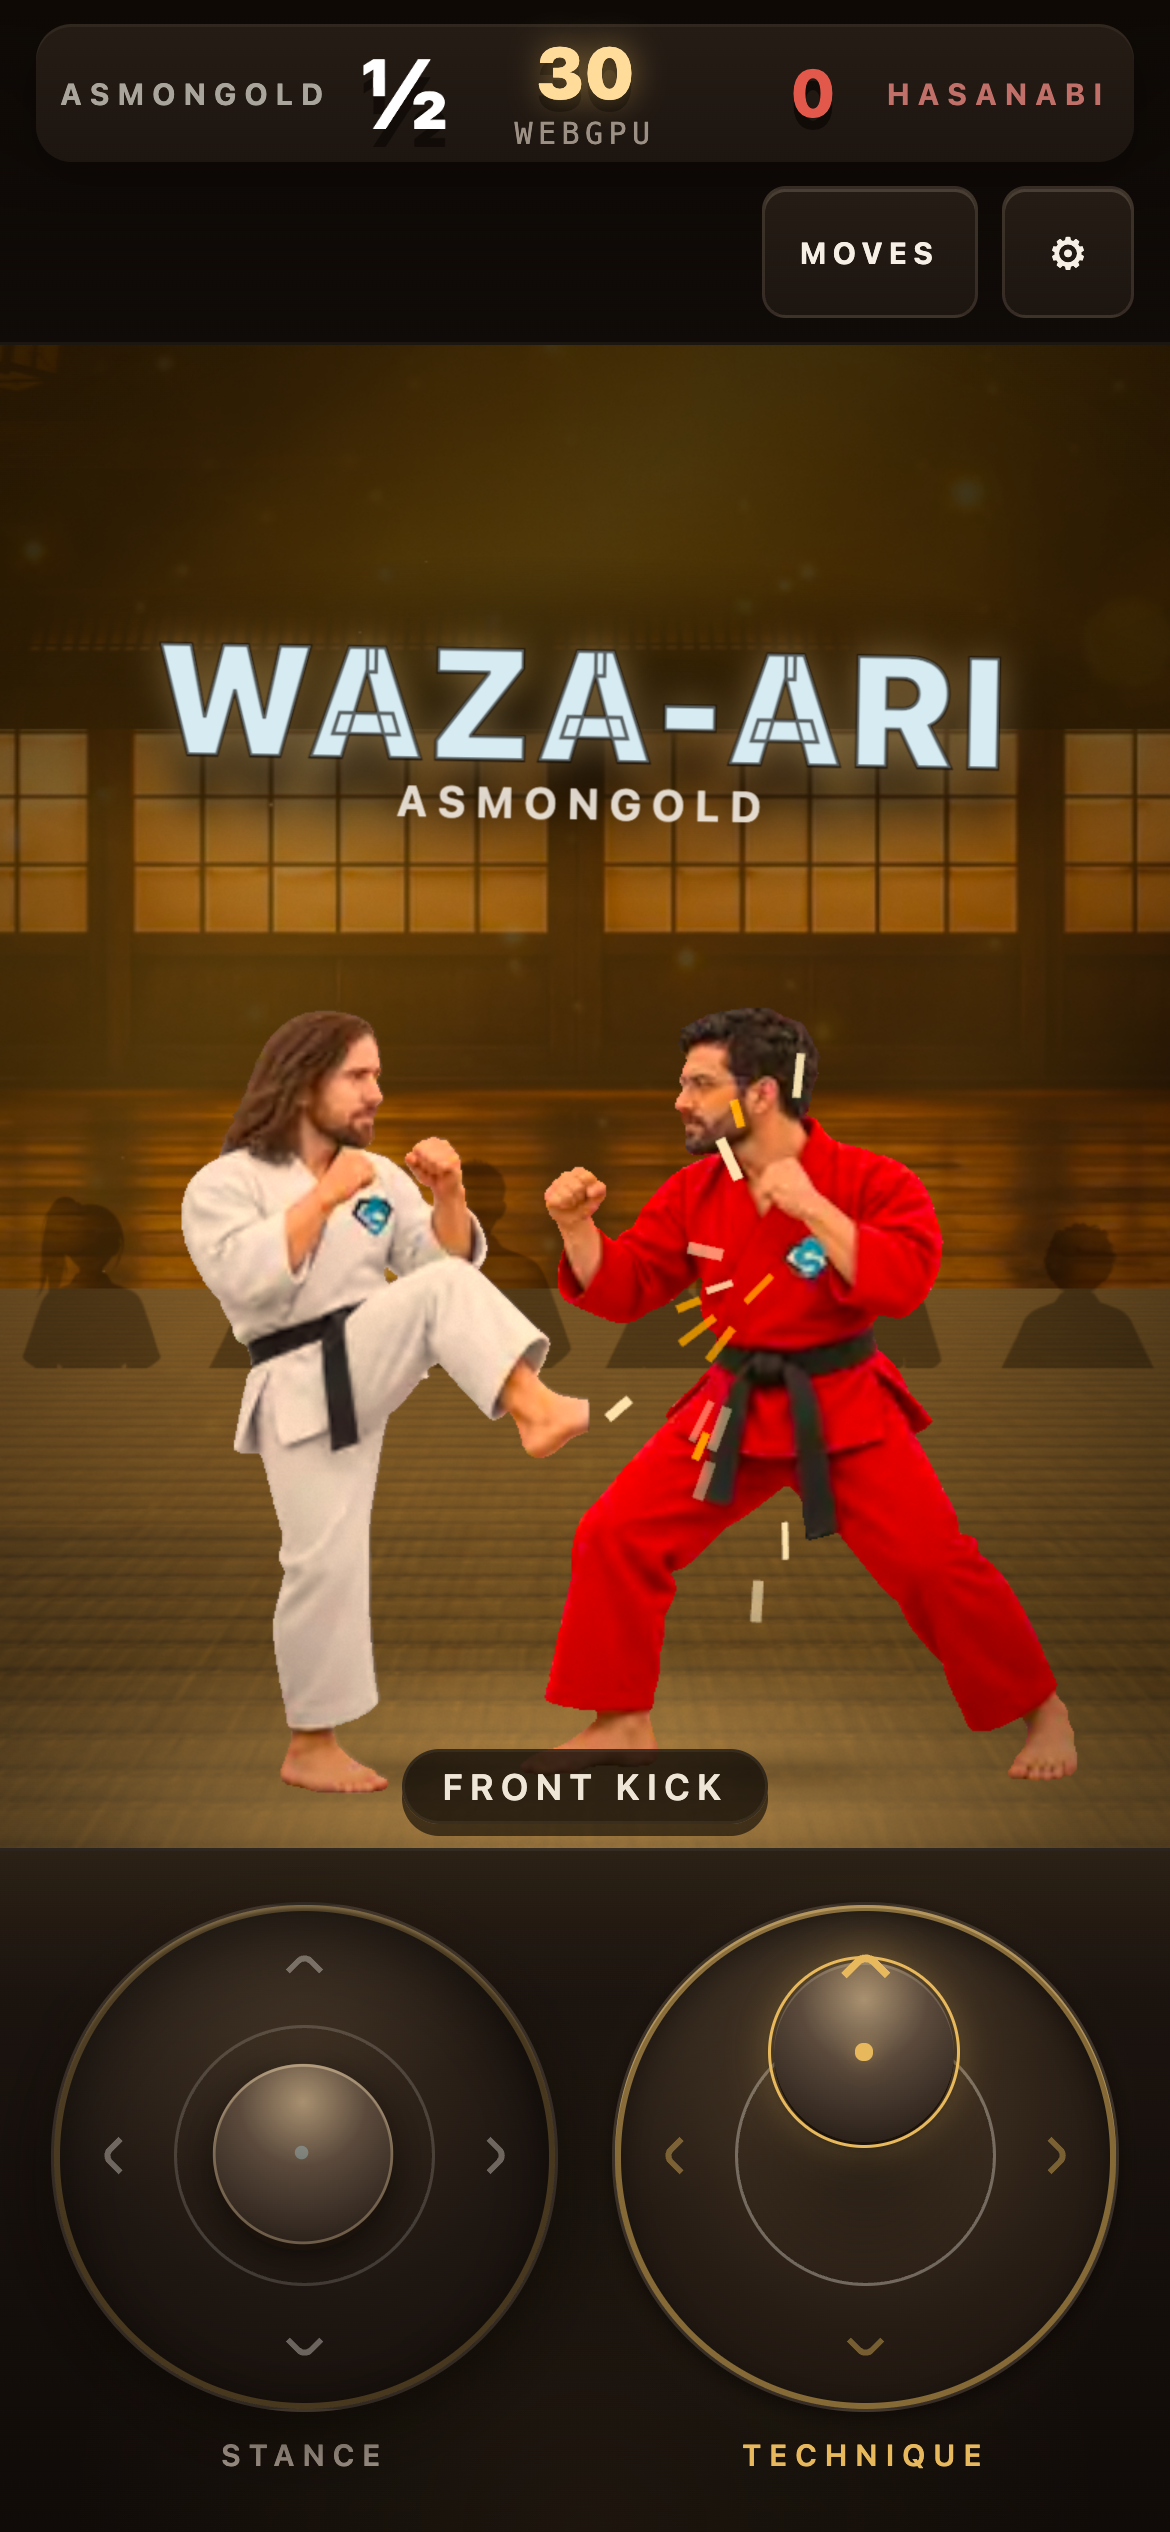
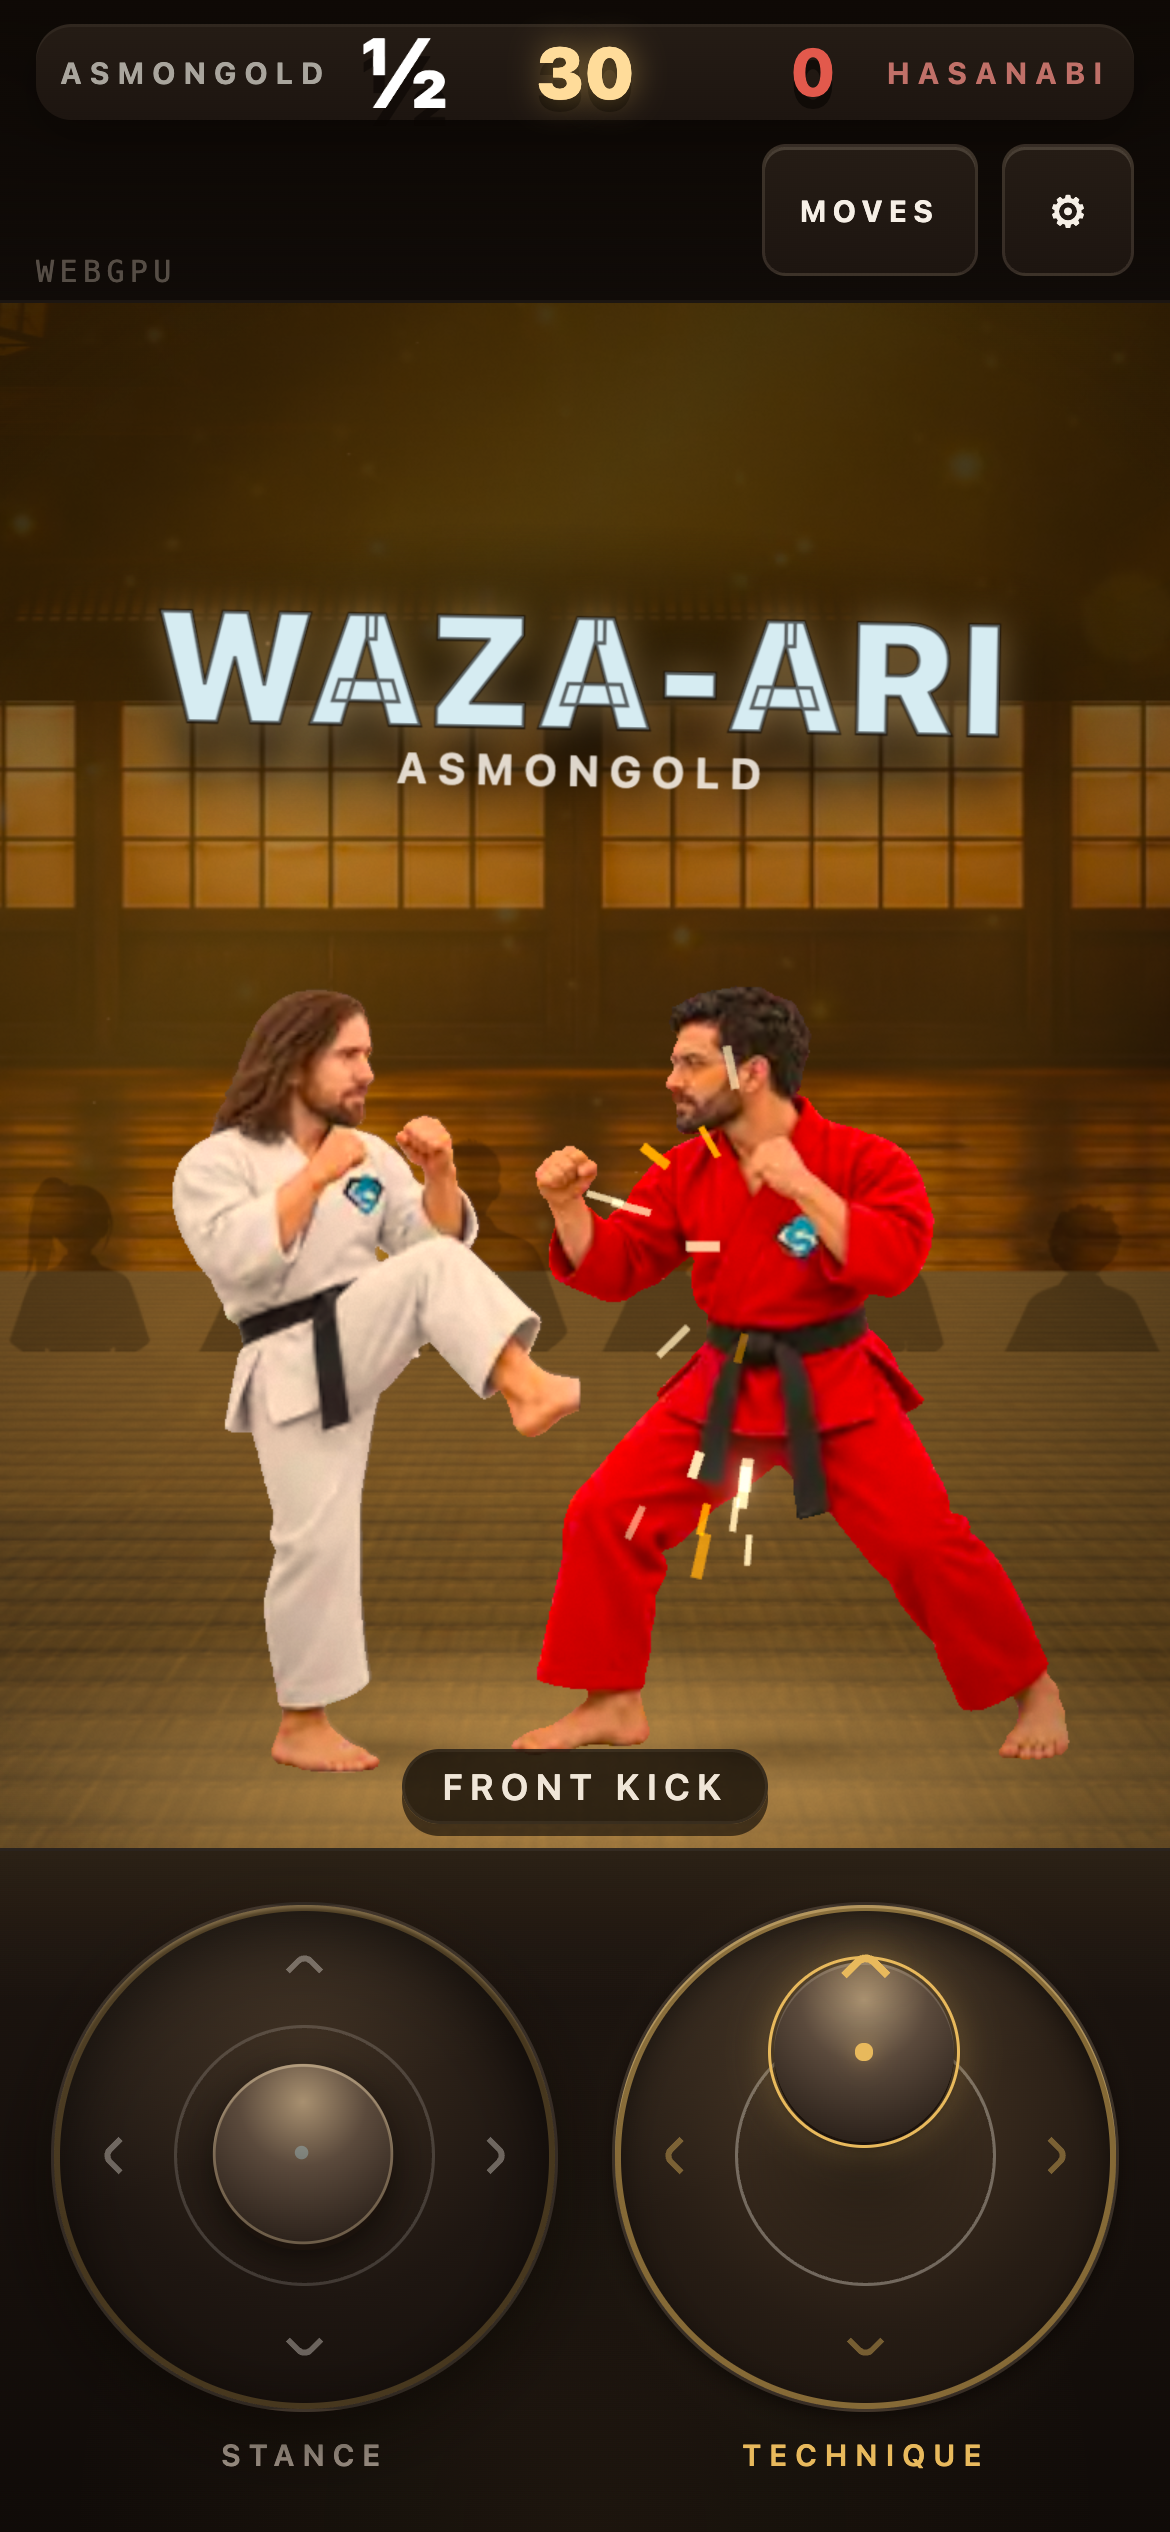
fix(ui): vision-review round 2 — result card, boot gauge, crowd, badge, vignette
Reviewed by z-ai/glm-5.3-flash against round 1's screenshots. All five items
verified in source first, then by screenshot after.

- result card: a scrim, not a blackout. A flat 0.72 plate sat under a radial
  scrim and the two together crushed the dojo to pure black. First attempt at
  easing it made the detail line unreadable against a white gi, so legibility
  is now bought locally with a blurred plate under the text column only, and
  the dojo reads through everywhere else.
- boot gauge: the bar legitimately sits at 0% while the first bundle fetch runs,
  which read as broken. The status line now carries the real percentage, and
  carries it from the first paint (markup included, not just the first update).
  The well is lifted off the page background so a 0% bar still looks like a gauge.
- crowd: MeshBasicMaterial takes no light, so a neutral brown row read as grey
  cutouts pasted onto a tungsten scene. Repainted warm and pulled back.
- renderer badge: out of the clock's centre slot and into a dimmed corner tab.
  It is diagnostics; the most-watched pixel was being spent on it.
- vignette 0.38 -> 0.28, which was crushing the dojo's upper structure and
  leaving the top third of a portrait screen featureless.

diff --git a/apps/game/src/styles.css b/apps/game/src/styles.css
@@ -112,6 +112,13 @@
      the focus, but the art is visible behind it now. */
   --scrim-soft: rgb(14 9 5 / 0.55);
   --scrim-hard: rgb(10 7 4 / 0.86);
+  /* The result screen's own pair: dark enough for gold display type to hold
+     contrast, sheer enough that the dojo is still visibly behind it. */
+  --result-veil-soft: rgb(12 8 4 / 0.3);
+  --result-veil-hard: rgb(8 5 3 / 0.74);
+  --plate-clear: rgb(8 5 3 / 0.12);
+  --result-plate: rgb(10 7 4 / 0.62);
+  --result-plate-solid: rgb(10 7 4 / 0.88);
   /* The flat knock-down between the round card's readability scrim and the
      painted dojo plate beneath it. Sits at the scrim's own corner value: any
      lighter and the plate's lit centre survives as a bright bloom right where
@@ -295,7 +302,7 @@
      stray gold dash rather than as a meter that is nearly empty. It is a
      sunken leather well, and the hairline is what draws its edge against a
      ground that is the same value. */
-  --boot-well: rgb(38 27 19 / 0.92);
+  --boot-well: rgb(56 41 28 / 0.95);
   --boot-well-edge: rgb(255 234 205 / 0.1);
   --boot-fill: linear-gradient(90deg, var(--gold-deep), var(--gold) 58%, var(--gold-bright));
   --boot-glint: rgb(255 246 226 / 0.42); /* the light running through the fill */
@@ -464,7 +471,8 @@ body {
 
 /* 6px, not the 2px hairline it started as: on a phone the bar is the only
    thing reporting real progress, and at 2px against a dark well it read as a
-   rule rather than as a gauge. */
+   rule rather than as a gauge. The well is lifted off the page background for
+   the same reason — a 0% bar still has to look like a gauge waiting to fill. */
 .boot-bar {
   position: relative;
   overflow: hidden;
@@ -580,6 +588,25 @@ body {
     var(--scrim-none) 100%
   );
   border-bottom: 1px solid var(--edge-faint);
+}
+
+/* The renderer badge, demoted to a corner tab. It is a diagnostic: the useful
+   moment for it is when someone is already debugging, and the cost of putting
+   it in the clock was the most-watched pixel on screen being spent on it. */
+#backend {
+  position: absolute;
+  inset-block-end: var(--space-1);
+  inset-inline-start: var(--space-3);
+  font-family: var(--font-mono);
+  font-size: var(--text-2xs);
+  letter-spacing: var(--track-normal);
+  color: var(--text-ghost);
+  opacity: 0.5;
+}
+
+#backend:hover,
+#backend:focus-visible {
+  opacity: 1;
 }
 
 .scoreline {
@@ -1750,16 +1777,42 @@ body.left-handed #zone-right {
   gap: var(--space-3);
   padding: var(--space-4);
   text-align: center;
+  /* A whisper of a veil, so the dojo is still a place and not a black card.
+     It cannot do the legibility work on its own — at these values the detail
+     line vanished against a white gi — so legibility is bought locally, with
+     a blurred plate under the text column and nowhere else. */
   background-image: radial-gradient(
       ellipse at 50% 45%,
-      var(--scrim-soft),
-      var(--scrim-hard)
+      var(--result-veil-soft),
+      var(--result-veil-hard)
     ),
-    linear-gradient(var(--plate-dim), var(--plate-dim)),
-    var(--card-plate, none);
+    linear-gradient(var(--plate-clear), var(--plate-clear));
   background-position: center;
   background-size: cover;
   background-repeat: no-repeat;
+}
+
+/* Everything in the result column sits on this. Tight to the text, so the
+   fighters either side stay clear, and blurred rather than opaque, so the
+   dojo reads through it instead of being replaced by it. */
+.result > * {
+  position: relative;
+}
+
+.result-title,
+.result-score,
+.result-detail {
+  padding: var(--space-2) var(--space-5);
+  background: var(--result-plate);
+  backdrop-filter: blur(14px) saturate(0.85);
+  -webkit-backdrop-filter: blur(14px) saturate(0.85);
+  border-radius: var(--radius-md);
+}
+
+body.no-backdrop-filter .result-title,
+body.no-backdrop-filter .result-score,
+body.no-backdrop-filter .result-detail {
+  background: var(--result-plate-solid);
 }
 
 .result.show {

diff --git a/apps/game/index.html b/apps/game/index.html
@@ -39,7 +39,11 @@
             fetchpriority="high"
           />
         </div>
-        <p class="boot-stage" id="boot-stage" role="status" aria-live="polite">Starting up</p>
+        <!-- Carries the 0% from the very first paint. The first unit of real
+             work is a bundle fetch, so on a slow connection this line sits
+             unchanged for a second and a half; without a number it reads as a
+             stuck gauge rather than a busy one. -->
+        <p class="boot-stage" id="boot-stage" role="status" aria-live="polite">Starting up · 0%</p>
         <div
           class="boot-bar"
           id="boot-bar"
@@ -69,13 +73,15 @@
           </div>
           <div class="clock">
             <span id="timer">30</span>
-            <small id="backend">…</small>
           </div>
           <div class="side right" data-side="1">
             <span class="points" id="points-1" aria-label="Player two score">0</span>
             <span class="name" id="name-1">HasanAbi</span>
           </div>
         </div>
+        <!-- The renderer badge used to live under the timer, in the one slot
+             the eye returns to most. It is diagnostics, not score. -->
+        <small id="backend">…</small>
         <div class="hud-actions">
           <button
             type="button"

diff --git a/apps/game/src/bootScreen.ts b/apps/game/src/bootScreen.ts
@@ -178,7 +178,12 @@ export function mountBootScreen(): BootScreen {
       const percent = Math.min(100, Math.round((earned / TOTAL_WEIGHT) * 100));
       fill.style.inlineSize = `${percent}%`;
       bar.setAttribute('aria-valuenow', String(percent));
-      stage.textContent = note ?? UNITS[unit].label;
+      // The percentage rides along with the stage name. The first unit of real
+      // work is a bundle fetch, so on a slow connection the bar legitimately
+      // sits at 0% for a second and a half — and a gauge reading zero with no
+      // number looks broken rather than busy. The number is the same real
+      // value the bar is showing, not a spinner standing in for one.
+      stage.textContent = `${note ?? UNITS[unit].label} · ${percent}%`;
     },
 
     close(): Promise<void> {

diff --git a/apps/game/src/stage.ts b/apps/game/src/stage.ts
@@ -351,11 +351,15 @@ export class Stage {
           map: crowd,
           transparent: true,
           depthWrite: false,
-          opacity: 0.55,
+          opacity: 0.46,
           toneMapped: true,
         }),
       );
-      row.material.color.set('#2e241a');
+      // Warm, not neutral. A MeshBasicMaterial takes no light, so the row is
+      // painted with whatever colour it is given — and at a neutral brown it
+      // read as grey cutouts pasted onto a tungsten scene, the one thing in
+      // the frame that was not standing in the same room as the fighters.
+      row.material.color.set('#4a3320');
       row.position.set(0, 0.85, CROWD_Z);
       this.scene.add(row);
     }

diff --git a/apps/game/src/post.ts b/apps/game/src/post.ts
@@ -49,7 +49,11 @@ export function createPostStack(
   const bloomStrength = opts.bloomStrength ?? 0.42;
   const grainAmount = opts.grain ?? 0.06;
   const sat = opts.saturation ?? 1.14;
-  const vig = opts.vignetteIntensity ?? 0.38;
+  // 0.38 was pulling the frame edges well under the point where the dojo's
+  // upper structure still reads, which left the top third of a portrait phone
+  // screen as a featureless dark band above the fighters. Eased, not removed:
+  // the falloff is what seats the fighters in the middle of the frame.
+  const vig = opts.vignetteIntensity ?? 0.28;
 
   const pipeline = new RenderPipeline(renderer);
 
